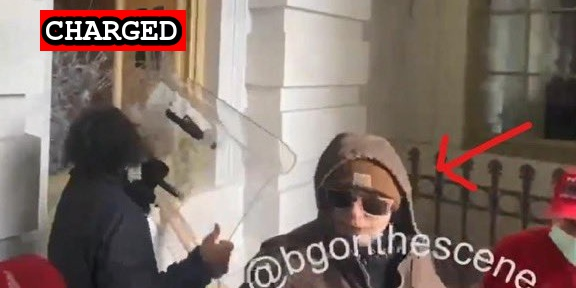
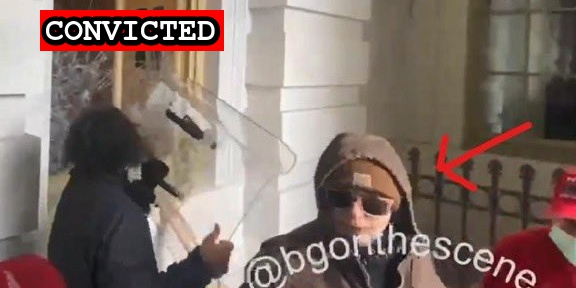
New conviction

Changed region(s): [[0.0938, 0.0312, 0.4062, 0.1875]]

diff --git a/commands/suspect-convict.ts b/commands/suspect-convict.ts
@@ -1,0 +1,42 @@
+import { Command } from "commander";
+import { exitWithError, info } from "./common/console";
+import fs from "fs";
+import { readFile, writeFile } from "./common/file";
+import { exit } from "process";
+import { execSync } from 'child_process'
+
+const cmd = new Command('convict')
+  .requiredOption("-s, --slug [slug]", "filename slug")
+  .requiredOption("-d, --date [date]", "date of guilty plea");
+cmd.parse(process.argv);
+
+const convict = async() => {
+  const suspectFiles = fs.readdirSync('./docs/_suspects');
+  const nameSet:Set<string> = new Set();
+  let maxId = 0;
+
+  for (const suspectFile of suspectFiles) {
+    if (suspectFile.replace(".md", "") == cmd.slug) {
+      info("Changing status to guilty");
+
+      const suspectPath = `./docs/_suspects/${suspectFile}`
+      let data = readFile(suspectPath)
+
+      data = data.replace(/status: .*\n/, "status: Convicted\n")
+      if (/convicted:.*\n/.test(data)) {
+        data = data.replace(/convicted:.*\n/, `convicted: ${cmd.date}\n`)
+      } else {
+        data = data.replace(/(indicted:.*)\n/, `indicted:${RegExp.$1}\nconvicted: ${cmd.date}\n`)
+      }
+
+      writeFile(suspectPath, data)
+      const previewImage = data.match(/\/images\/preview\/(.*)\n/)
+      execSync(`yarn suspect preview -f ${RegExp.$1} -s Convicted`)
+
+      exit()
+    }
+  }
+  exitWithError(`No such file ${cmd.slug}.md`)
+}
+
+convict();

diff --git a/commands/suspect.ts b/commands/suspect.ts
@@ -8,6 +8,7 @@ const suspect = new Command()
   .command("import", "import suspects from an external source")
   .command("unpublished", "list unpublished suspects")
   .command("verify", "verify all required elements present before publishing")
+  .command("convict", "mark a new suspect as convicted")
 suspect.parse(process.argv);
 
 const subCmd = head(suspect.args);

diff --git a/docs/_suspects/bryan-ivey.md b/docs/_suspects/bryan-ivey.md
@@ -3,10 +3,11 @@ name: Bryan Ivey
 lastName: Ivey
 aka:
 residence: Tennessee
-status: Charged
+status: Convicted
 date: 2021-03-04
 charged: 2021-03-04
 indicted:
+convicted: 2021-06-22
 age: 28
 occupation:
 affiliations:
